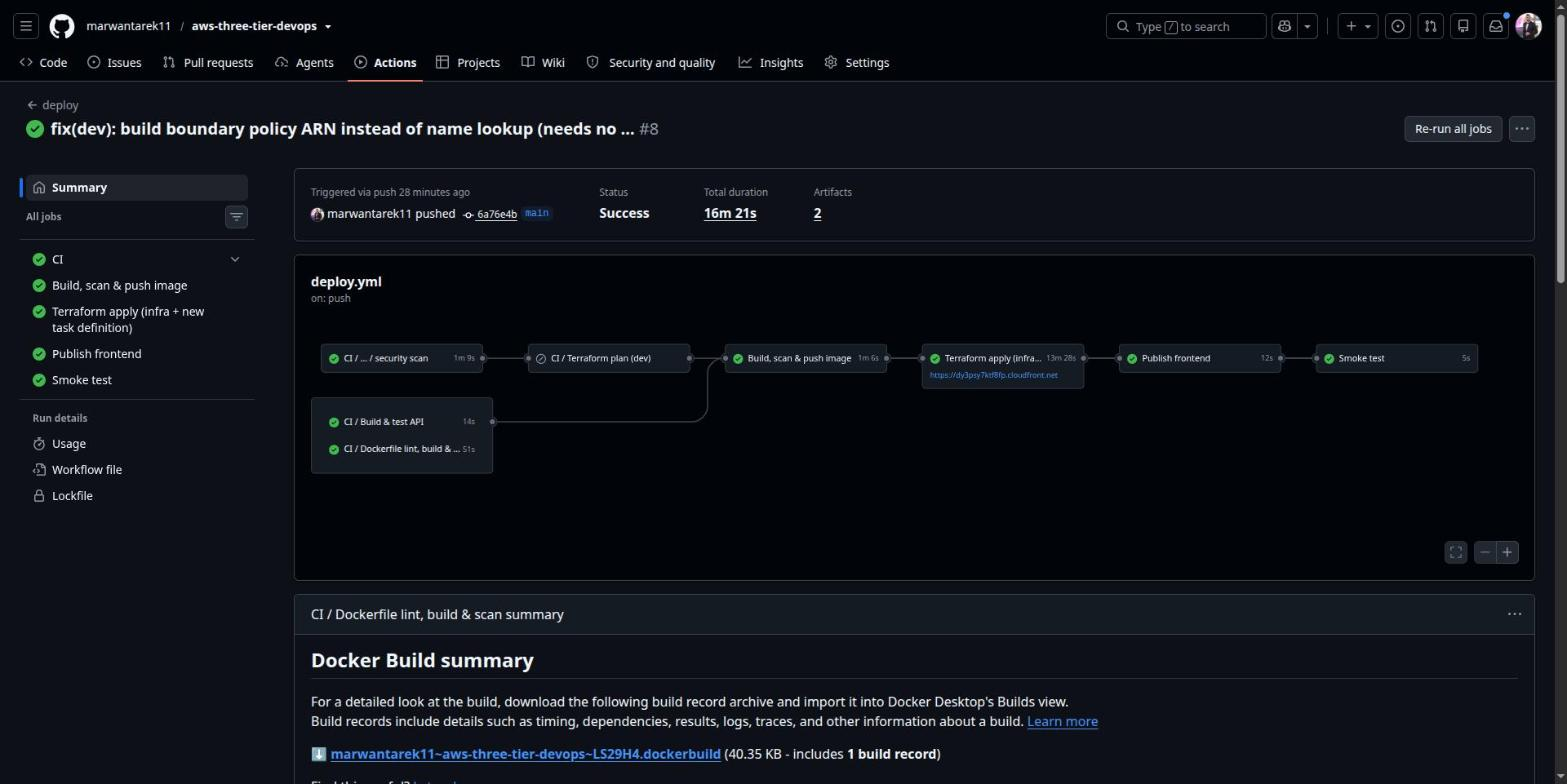
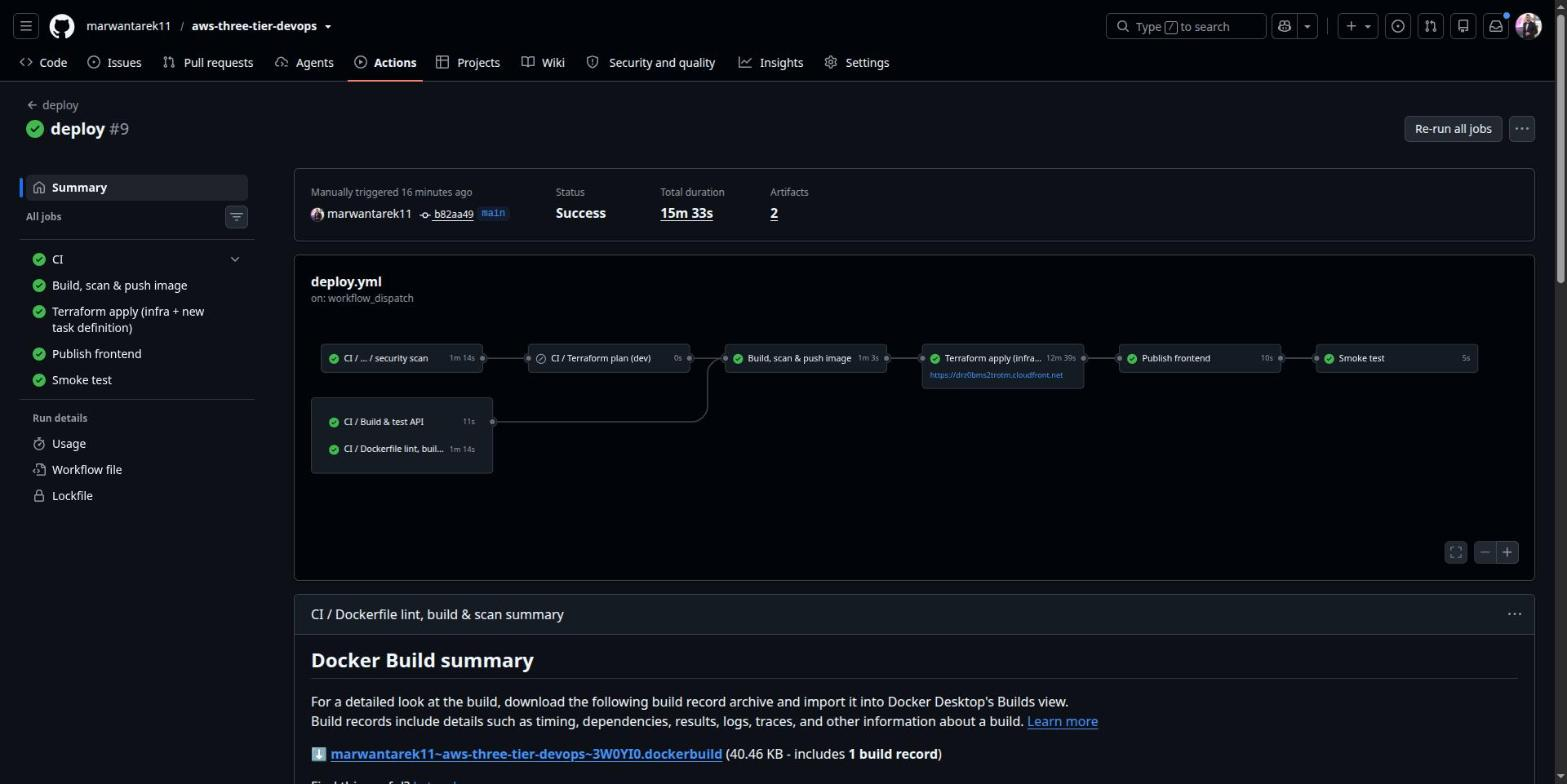
docs: refresh pipeline run screenshot

diff --git a/README.md b/README.md
@@ -315,7 +315,7 @@ cd ../../bootstrap && terraform destroy      # optional: removes state bucket, E
 
 Captured from the live deployment (account on the AWS Free plan, `eu-north-1`), before teardown.
 
-**Pipeline:** every stage green on a push to `main` (CI → image → terraform apply → frontend → smoke test)
+**Pipeline:** every stage green (CI → image → terraform apply → frontend → smoke test); the same workflow runs automatically on every push to `main`
 ![Pipeline run](docs/screenshots/pipeline-run.jpg)
 
 **App:** served by CloudFront; the button writes to PostgreSQL through the API
